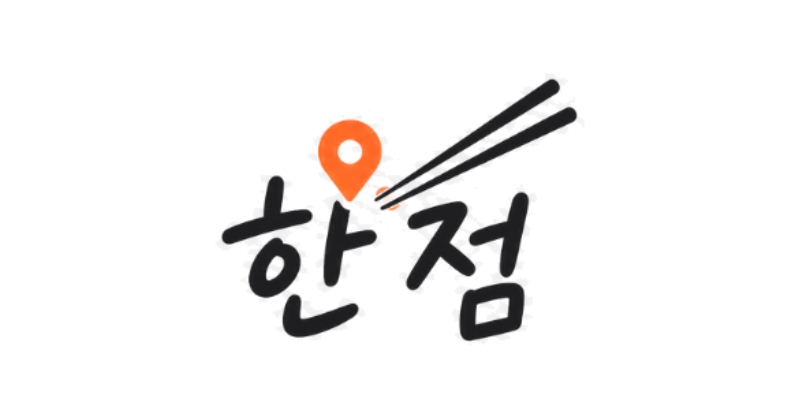
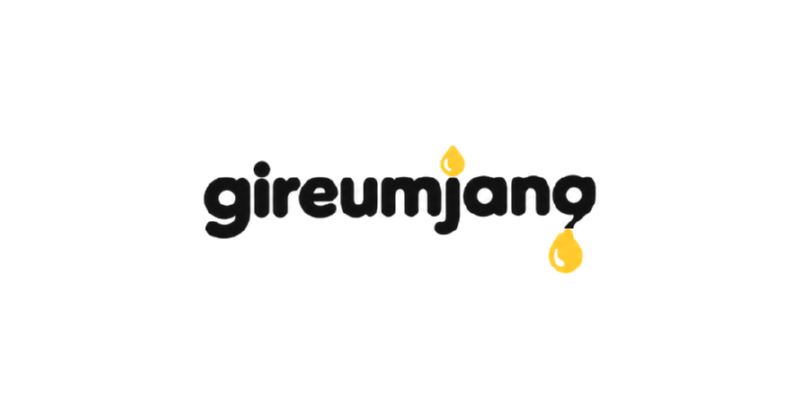
로고를 gireumjang으로, 카톡 미리보기 이미지도 새 로고로

Changed region(s): [[0.25, 0.1857, 0.75, 0.8357]]

diff --git a/app/index.html b/app/index.html
@@ -11,7 +11,7 @@
 <meta property="og:type" content="website">
 <meta property="og:title" content="한 점">
 <meta property="og:description" content="제철 맛집 지도 · 약속 장소 투표">
-<meta property="og:image" content="https://msroe84-web.github.io/hanjeom/og.png">
+<meta property="og:image" content="https://msroe84-web.github.io/hanjeom/og.png?v=2">
 <meta property="og:image:width" content="800">
 <meta property="og:image:height" content="420">
 <meta name="apple-mobile-web-app-title" content="한 점">
@@ -132,17 +132,17 @@ header { flex: none; position: relative; z-index: 5;
 .toprow { position: relative; }
 .logo { position: absolute; left: 50%; top: 2px; transform: translateX(-50%); z-index: 1; transition: transform .2s cubic-bezier(.32,.72,0,1); }
 .logo:active { transform: translateX(-50%) scale(.94); }
-.logo img { display: block; height: 62px; width: auto; }
+.logo img { display: block; height: 44px; width: auto; }
 .logo .lg-dark { display: none; }
 @media (prefers-color-scheme: dark) { .logo .lg-light { display: none; } .logo .lg-dark { display: block; } }
-@media (max-width: 719px) { #title { max-width: calc(50% - 56px); } }
+@media (max-width: 719px) { .logo { top: 10px; } #title { max-width: calc(50% - 74px); } }
 @media (min-width: 720px) {
   /* 넓은 화면: 제목·검색 한 줄, 칩 두 줄 */
   .toprow { display: flex; align-items: flex-end; gap: 16px; }
   .toprow .titlewrap { flex: none; min-width: 200px; }
   .toprow .searchrow { flex: 1; max-width: min(560px, calc(50% - 180px)); margin: 0 0 4px auto; }
   .logo { top: auto; bottom: 2px; }
-  .logo img { height: 68px; }
+  .logo img { height: 54px; }
 }
 .crumb { font-size: 15px; color: var(--pin); font-weight: 600; height: 30px; padding: 0 12px 0 8px; margin-bottom: 4px; border-radius: 999px; background: var(--fill); display: inline-flex; align-items: center; gap: 2px;
   opacity: 0; transform: translateX(-8px); transition: opacity .3s, transform .45s cubic-bezier(.32,.72,0,1); pointer-events: none; }
@@ -511,7 +511,7 @@ mark { background: rgba(255,204,0,.35); color: inherit; border-radius: 3px; padd
 
   </div>
   </div>
-  <button class="logo" id="logoHome" aria-label="한 점, 처음 화면으로"><img class="lg-light" src="logo-light.png" alt=""><img class="lg-dark" src="logo-dark.png" alt=""></button>
+  <button class="logo" id="logoHome" aria-label="한 점, 처음 화면으로"><img class="lg-light" src="logo-light.png?v=2" alt=""><img class="lg-dark" src="logo-dark.png?v=2" alt=""></button>
   <div class="searchrow">
     <label class="search" id="searchBox">
       <svg width="16" height="16" viewBox="0 0 16 16"><circle cx="7" cy="7" r="5.2" fill="none" stroke="currentColor" stroke-width="1.8"/><path d="M11 11l3.6 3.6" stroke="currentColor" stroke-width="1.8" stroke-linecap="round"/></svg>

diff --git a/CLAUDE.md b/CLAUDE.md
@@ -75,7 +75,7 @@ python3 scripts/dev_server.py     # http://localhost:5173  (app/ + /api/transit 
 
 디자인: iOS 기본 스타일 확정. 지도는 흰 땅·연한 회청색 바다 (파란 바다·초록 산줄기는 해봤다가 "그림판 같다"고 되돌림, 애플 지도 스타일도 되돌림). B·C 시안은 폐기.
 '찐맛집' 개념은 뺐다(칩·태그·보라 핀·정렬 가중 모두). 저장 폴더 이름도 화면에 안 보임. 자주 가는 곳은 방문 횟수 태그로 드러난다.
-로고(`.logo`): 사용자가 준 이미지(손글씨 '한점' + 주황 핀 + 젓가락). 원본은 검은 배경이라 배경을 투명하게 만든 `app/logo-dark.png`(원색, 다크 모드)와 `app/logo-light.png`(글자만 검정, 라이트 모드) 두 장을 씀. 넓은 화면은 헤더 가운데(높이 68px, 검색창은 가운데를 넘지 않게 폭 제한), 아이폰은 뒤로 버튼 줄~제목 줄에 걸쳐 가운데(62px, 제목은 로고 앞에서 말줄임). 위쪽 제목(`#title`)은 첫 화면에서 '전국', 그다음 지역 이름.
+로고(`.logo`): 2026-11-25부터 'gireumjang'(사용자 인스타 부계 '기름장' 영문 로고, 흰 글자 + 노란 기름 방울 2개). 원본은 검은 배경이라 배경을 투명하게 만든 `app/logo-dark.png`(원색, 다크 모드)와 `app/logo-light.png`(글자만 검정, 방울은 노랑 그대로, 라이트 모드) 두 장. 가로로 긴 모양이라 높이는 아이폰 44px·넓은 화면 54px. 이미지를 바꾸면 `index.html`의 `?v=` 숫자를 올릴 것(브라우저·카톡 캐시). 카톡 미리보기 `og.png`는 흰 바탕 800×420에 로고를 가운데 400px 안에 둠(카톡이 정사각형으로 잘라도 보이게). 위쪽 제목(`#title`)은 첫 화면에서 '전국', 그다음 지역 이름.
 
 제철 범위(12회차 결정): 대표 메뉴만 — 네이버 메뉴 앞 3개 + 후기 언급 상위 3개 + 가게 이름 (`season.js`의 `TOP_MENUS`, `TOP_REVIEW_MENUS`). 11월 284곳 → 187곳. 검색은 여전히 모든 메뉴를 본다.
 폐업: 앱에서 따로 표시 안 함. 네이버에서 저장을 지우고 동기화하면 빌드에서 빠진다 (build_data는 raw 목록에 있는 가게만 만든다).
